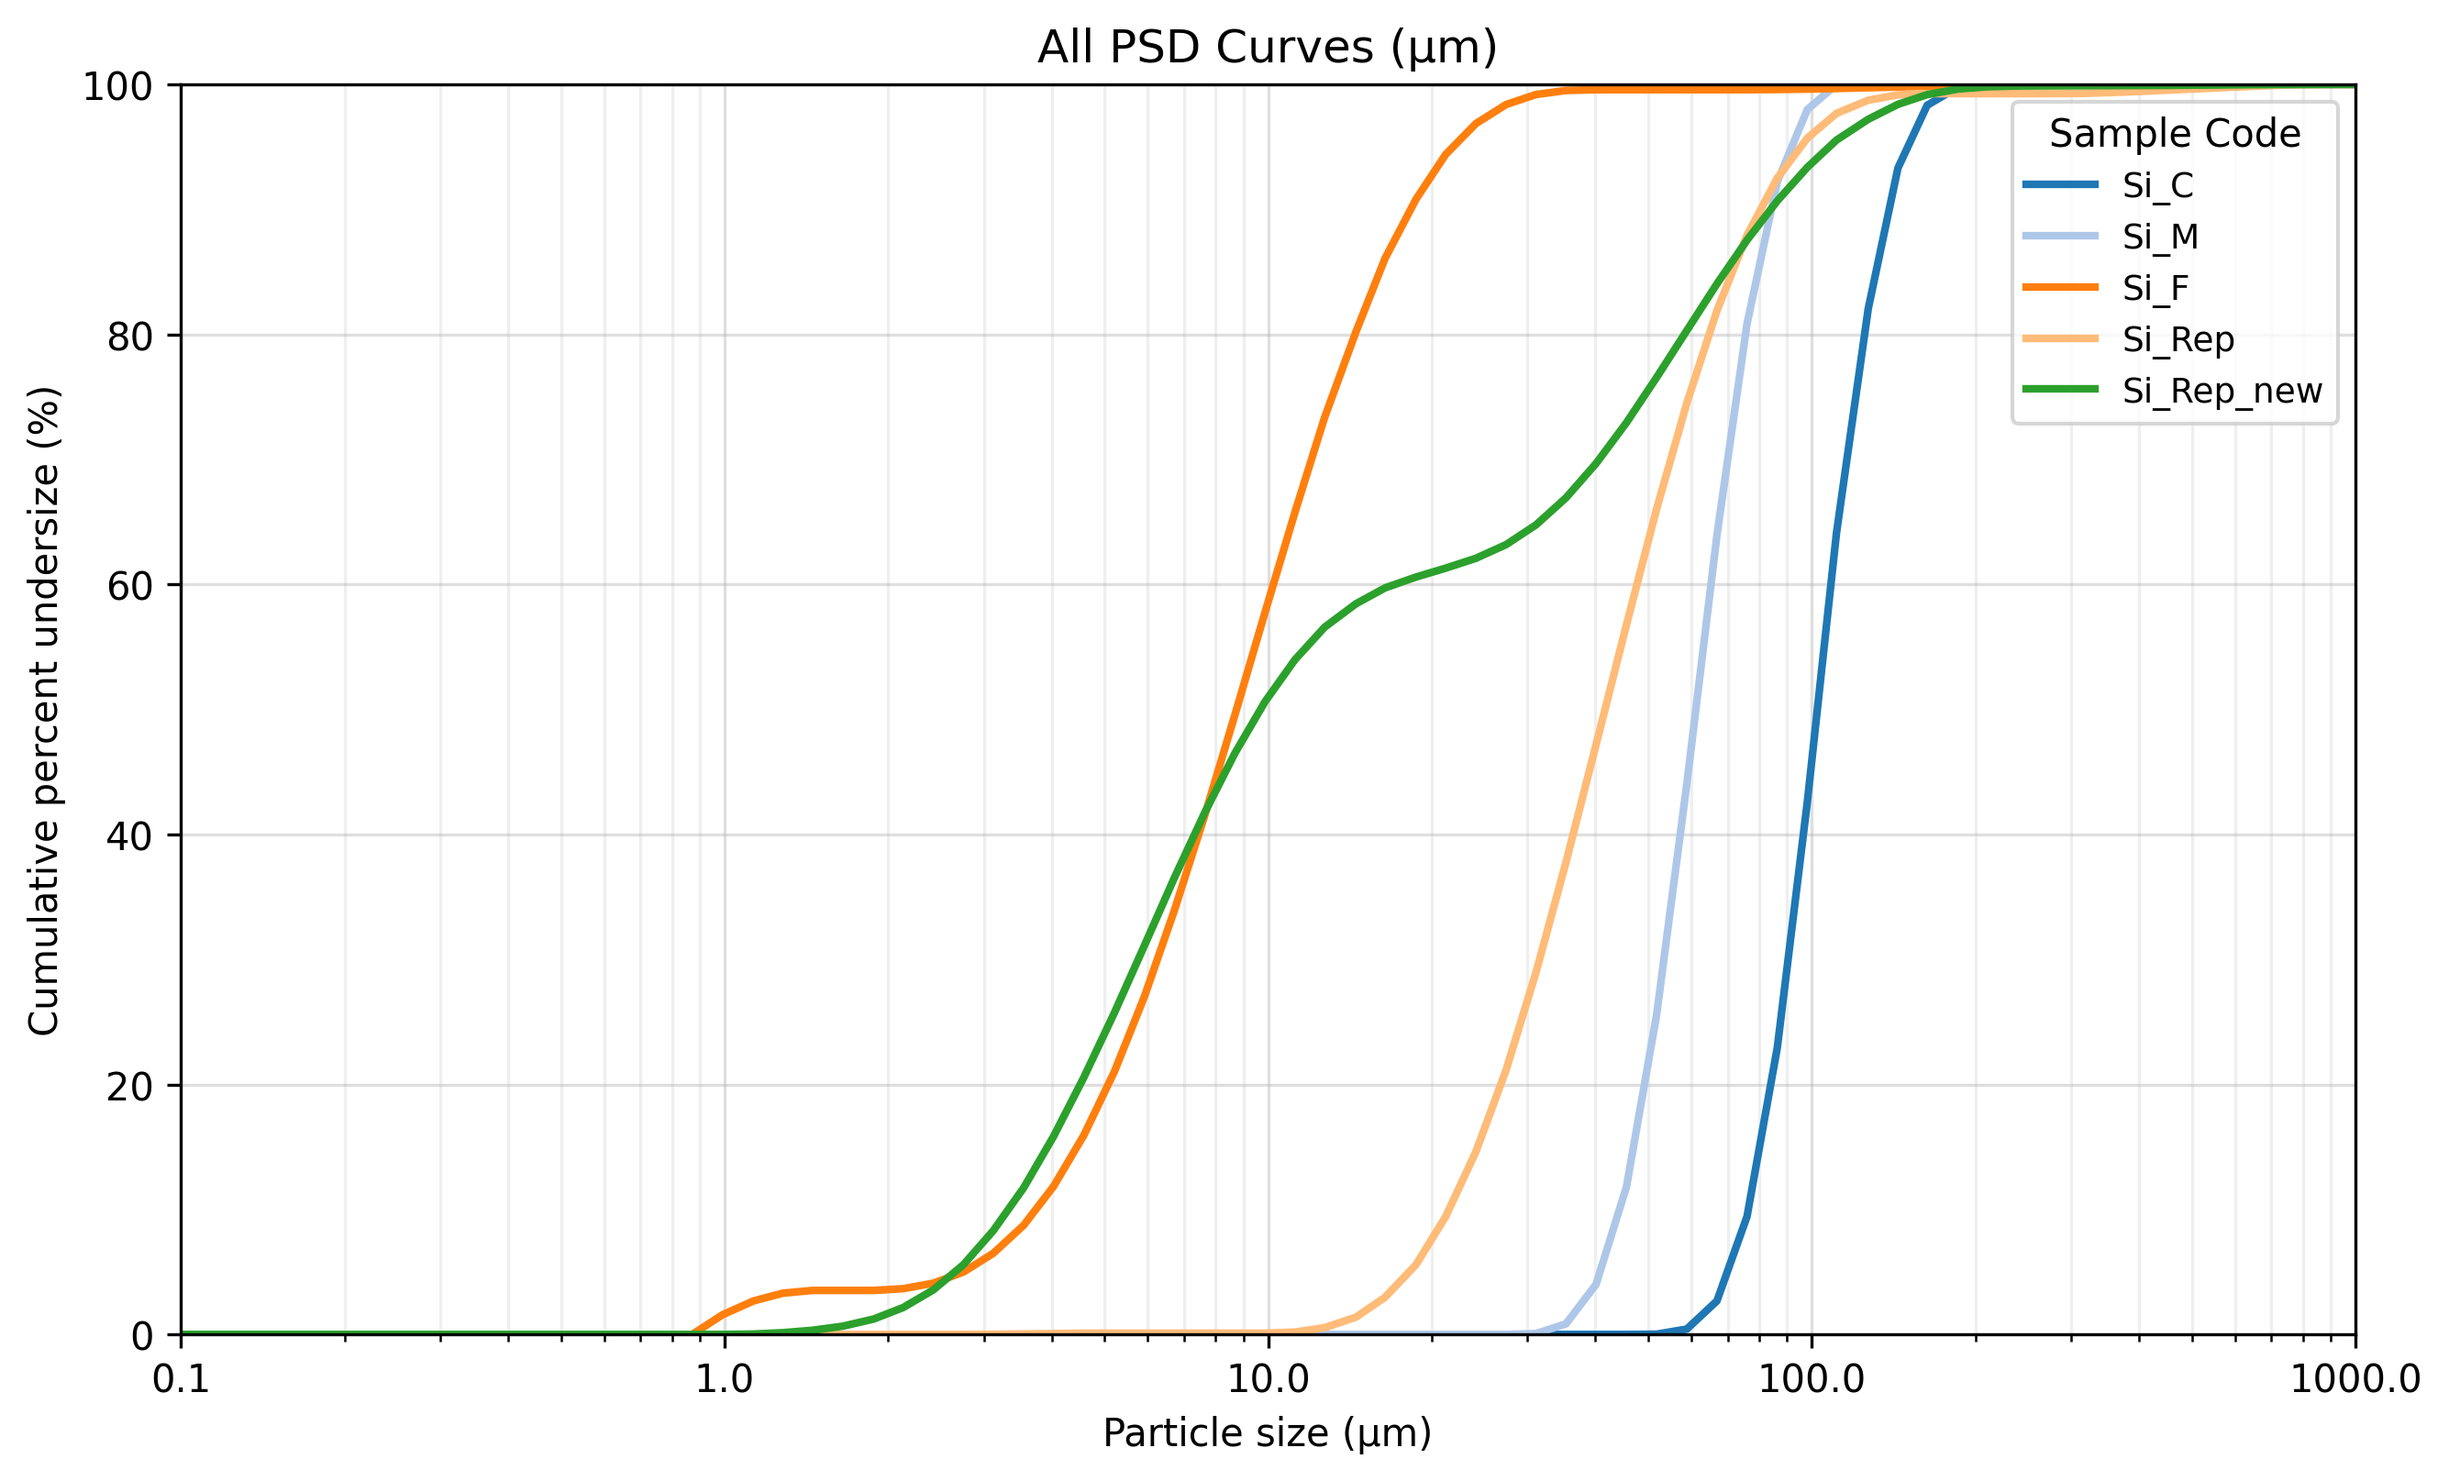
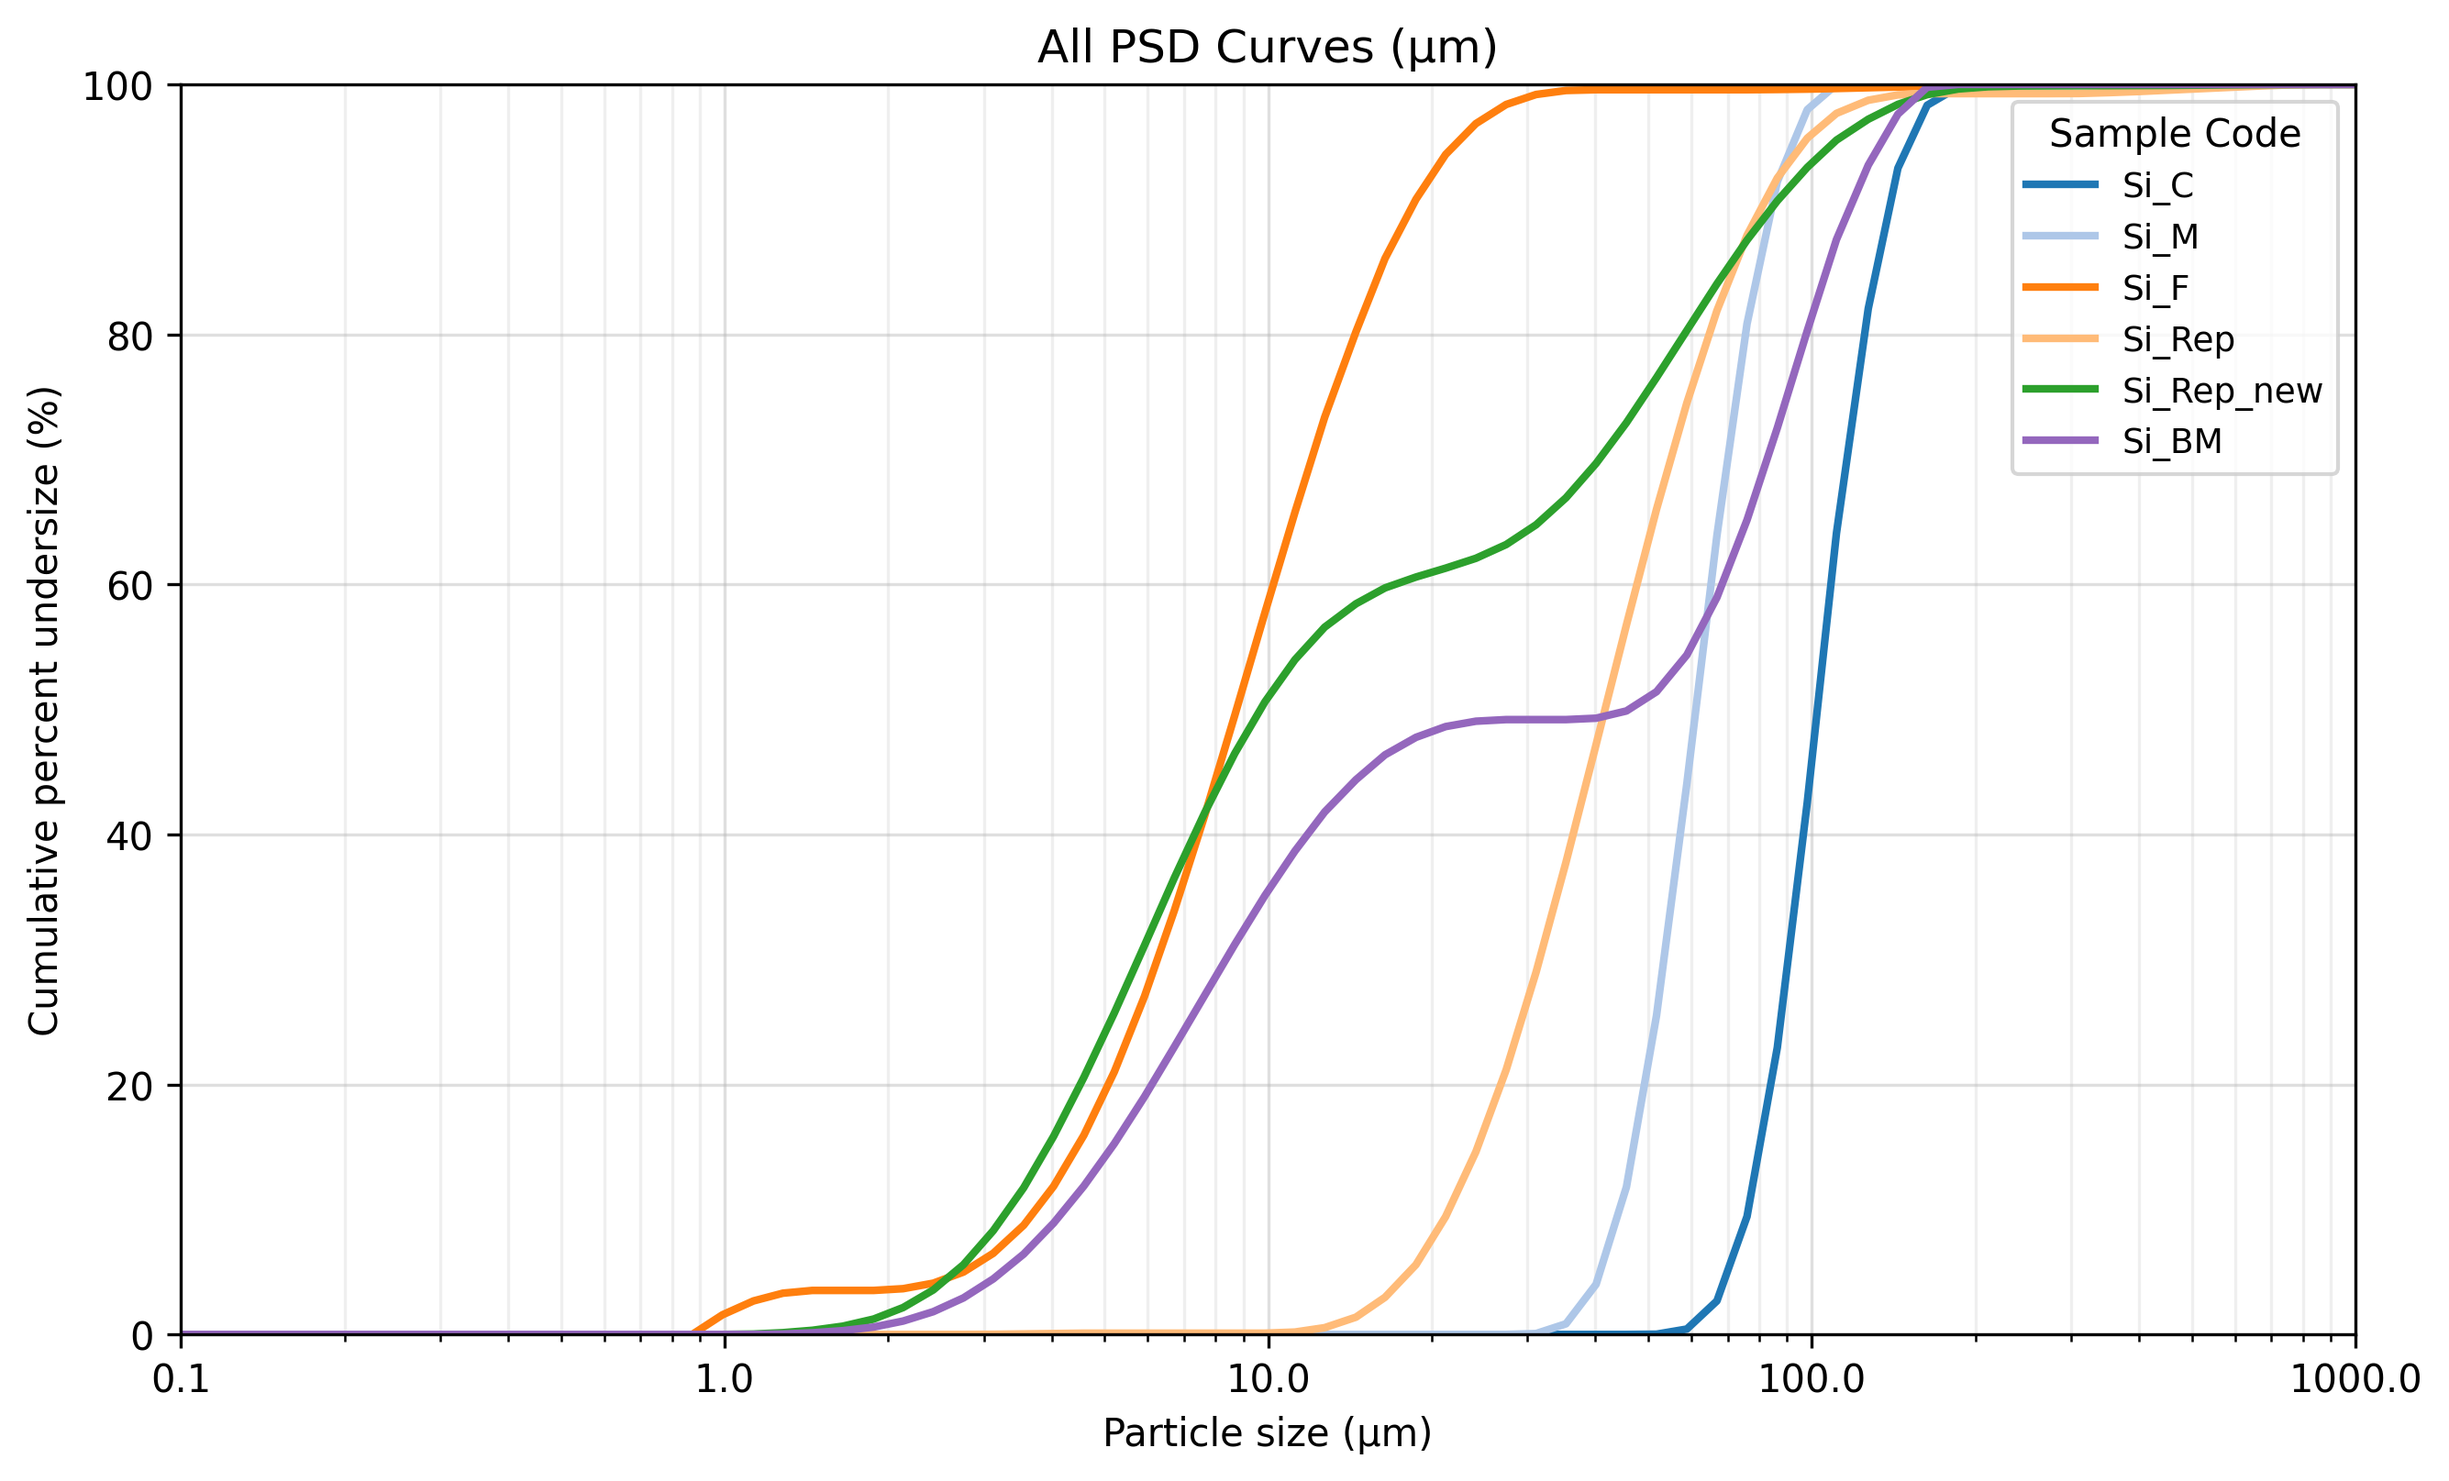
update all_psd

diff --git a/PSD_tools/psd_maker.py b/PSD_tools/psd_maker.py
@@ -1,19 +1,25 @@
 # -*- coding: utf-8 -*-
 from __future__ import annotations
-import re
-import pandas as pd
 import numpy as np
+import pandas as pd
 import matplotlib.pyplot as plt
 from matplotlib.ticker import ScalarFormatter
-from typing import Optional, Iterable, Sequence, Tuple, List
+from typing import Iterable, Optional, Sequence, Tuple, List
 
-# ---- Single-curve helpers ----
-def d_at_percent(sizes_um: Sequence[float], percent_passing: Sequence[float], p: float) -> float:
+# ---------- Single-curve helpers ----------
+def d_at_percent(
+    sizes_um: Sequence[float],
+    percent_passing: Sequence[float],
+    p: float
+) -> float:
     x = np.asarray(sizes_um, dtype=float)
     y = np.asarray(percent_passing, dtype=float)
-    if np.any(np.diff(x) <= 0): raise ValueError("sizes_um must be strictly increasing.")
-    if np.any(np.diff(y) < 0):  raise ValueError("percent_passing must be non-decreasing (cumulative).")
-    if not (0 <= p <= 100):     raise ValueError("p must be in [0, 100].")
+    if np.any(np.diff(x) <= 0):
+        raise ValueError("sizes_um must be strictly increasing.")
+    if np.any(np.diff(y) < 0):
+        raise ValueError("percent_passing must be non-decreasing (cumulative).")
+    if not (0 <= p <= 100):
+        raise ValueError("p must be in [0, 100].")
     return float(np.interp(p, y, x))
 
 def plot_psd(
@@ -24,7 +30,7 @@ def plot_psd(
     x_major_ticks: Iterable[float] = (0.1, 1, 10, 100, 1000),
     x_limits: Optional[Tuple[float, float]] = (0.1, 1000),
     show_grid: bool = True,
-    annotate_dx: Iterable[int] | None = None,   # set to None to avoid D10/D50/D90
+    annotate_dx: Iterable[int] | None = None,  # keep None to avoid drawing labels
     save_path: Optional[str] = None,
     show: bool = True,
 ) -> dict[str, float]:
@@ -35,13 +41,11 @@ def plot_psd(
 
     fig, ax = plt.subplots(figsize=(8, 5))
     ax.semilogx(x, y, "-o", linewidth=2, markersize=4)
-
     if x_limits: ax.set_xlim(*x_limits)
     ax.set_ylim(0, 100)
-    ax.set_xlabel("Particle size (\u03bcm)")  # your requested literal text
+    ax.set_xlabel("Particle size (\u03bcm)")
     ax.set_ylabel("Percent passing (%)")
     ax.set_title(title)
-
     ax.set_xticks(list(x_major_ticks))
     ax.get_xaxis().set_major_formatter(ScalarFormatter())
     if show_grid:
@@ -53,7 +57,7 @@ def plot_psd(
         for p in annotate_dx:
             d = d_at_percent(x, y, p)
             dx_out[f"D{p}"] = d
-            # (no lines/labels drawn on the figure)
+            # (no guide lines or text drawn)
 
     plt.tight_layout()
     if save_path: fig.savefig(save_path, dpi=300, bbox_inches="tight")
@@ -61,11 +65,9 @@ def plot_psd(
     else: plt.close(fig)
     return dx_out
 
-# ---- All-samples (PSD_Full) ----
+# ---------- All-samples (PSD_Full) ----------
 def _extract_numeric_size(colname: str) -> Optional[float]:
-    txt = str(colname)
-    # pull the first numeric token (handles '0.0995 u03bcm', '1110 u03bcm', etc.)
-    for token in txt.split():
+    for token in str(colname).split():
         try:
             return float(token)
         except ValueError:
@@ -77,90 +79,75 @@ def plot_all_psd(
     sheet_name: str = "PSD_Full",
     *,
     title: str = "Particle Size Distribution (All Samples)",
-    x_limits: tuple[float, float] = (0.1, 1000),
+    x_limits: Tuple[float, float] = (0.1, 1000),
     x_major_ticks: Iterable[float] = (0.1, 1, 10, 100, 1000),
     show_grid: bool = True,
     save_path: Optional[str] = None,
     show: bool = True,
     legend: bool = True,
 ):
-    """
-    Read PSD_Full and plot every row as a *cumulative* percent undersize curve.
-    If the row already looks cumulative (monotonic non-decreasing <=100), it's used as-is.
-    Otherwise it's treated as differential % per bin and converted to cumulative.
-    """
+    def to_cumulative(y_raw: np.ndarray) -> np.ndarray:
+        y = np.nan_to_num(y_raw.astype(float), nan=0.0)
+        if np.all(np.diff(y) >= -1e-6) and np.nanmax(y) <= 100 + 1e-6:
+            return np.clip(y, 0, 100)
+        tot = y.sum()
+        return np.cumsum(y * (100.0 / tot)) if tot > 0 else y
+
     df = pd.read_excel(excel_path, sheet_name=sheet_name, engine="openpyxl")
 
-    # --- find numeric PSD columns (e.g., '0.0995 u03bcm', '1110 u03bcm') ---
     psd_cols: List[str] = []
     sizes_um: List[float] = []
     for c in df.columns:
-        val = _extract_numeric_size(c)  # your helper stays the same
-        if val is not None:
+        v = _extract_numeric_size(c)
+        if v is not None:
             psd_cols.append(c)
-            sizes_um.append(val)
-
+            sizes_um.append(v)
     if not psd_cols:
         raise ValueError("No numeric PSD size columns found in the sheet.")
 
-    # sort by size (ascending) so cumulative is correct
     order = np.argsort(sizes_um)
     sizes_um = np.asarray(sizes_um, dtype=float)[order]
     psd_cols = [psd_cols[i] for i in order]
 
-    def to_cumulative(y_raw: np.ndarray) -> np.ndarray:
-        """Return cumulative % undersize (0-100). Detect if already cumulative."""
-        y = y_raw.astype(float)
-        # treat NaNs as zeros for processing
-        y = np.nan_to_num(y, nan=0.0)
-        # already cumulative? (non-decreasing and not >100)
-        if np.all(np.diff(y) >= -1e-6) and np.nanmax(y) <= 100 + 1e-6:
-            return np.clip(y, 0, 100)
-        # assume differential -> normalise to 100 then cumsum
-        total = y.sum()
-        if total <= 0:
-            return y  # all zeros
-        y_norm = y * (100.0 / total)
-        cum = np.cumsum(y_norm)
-        return np.clip(cum, 0, 100)
-
-    # --- plot all samples ---
     fig, ax = plt.subplots(figsize=(9, 5.5))
     cmap = plt.get_cmap("tab20")
-
-    for i, (_, row) in enumerate(df.iterrows()):
+    cidx = 0
+    for _, row in df.iterrows():
         name_val = row.get("Sample Name")
         if pd.isna(name_val):
-            continue  # skip empty rows
-
+            continue
         y_vals = row[psd_cols].to_numpy(dtype=float)
         if np.isnan(y_vals).all():
-            continue  # skip rows with no PSD data
-
+            continue
         y_cum = to_cumulative(y_vals)
-        ax.semilogx(sizes_um, y_cum, linewidth=2, label=str(name_val), color=cmap(i % 20))
+        ax.semilogx(sizes_um, y_cum, linewidth=2, label=str(name_val), color=cmap(cidx % 20))
+        cidx += 1
+
+    # Overlay your manual curve automatically
+    manual_sizes = np.array([0.5, 0.7, 1, 1.5, 2, 3, 4, 6, 8, 12, 18, 26, 38, 53, 75, 106, 150, 212, 300, 425, 600, 1000], dtype=float)
+    manual_percent = np.array([2.826, 4.277, 7.206, 12.586, 17.421, 25.123, 31.079, 40.088, 46.615,
+                               55.289, 62.971, 69.272, 75.268, 80.019, 84.453, 88.355, 91.703,
+                               94.637, 97.28, 99.165, 99.914, 100], dtype=float)
+    mo = np.argsort(manual_sizes)
+    manual_sizes = manual_sizes[mo]
+    manual_percent = manual_percent[mo]
+    manual_cum = to_cumulative(manual_percent)
+    ax.semilogx(manual_sizes, manual_cum, linewidth=3, color="black", label="RT_As Received")
 
     ax.set_xlim(*x_limits)
     ax.set_ylim(0, 100)
-    ax.set_xlabel("Particle size (\u03bcm)")  # keep literal text as requested
+    ax.set_xlabel("Particle size (\u03bcm)")
     ax.set_ylabel("Cumulative percent undersize (%)")
     ax.set_title(title)
-
     ax.set_xticks(list(x_major_ticks))
     ax.get_xaxis().set_major_formatter(ScalarFormatter())
-
     if show_grid:
         ax.grid(True, which="major", alpha=0.4)
         ax.grid(True, which="minor", alpha=0.2)
-
     if legend:
         ax.legend(title="Sample Code", fontsize=9, ncol=1)
 
     plt.tight_layout()
-    if save_path:
-        fig.savefig(save_path, dpi=300, bbox_inches="tight")
-    if show:
-        plt.show()
-    else:
-        plt.close(fig)
-
+    if save_path: fig.savefig(save_path, dpi=300, bbox_inches="tight")
+    if show: plt.show()
+    else: plt.close(fig)

diff --git a/Data_Process/PSDvsCakePore.py b/Data_Process/PSDvsCakePore.py
@@ -1,0 +1,87 @@
+import pandas as pd
+import numpy as np
+import matplotlib.pyplot as plt
+
+def plot_PSD_vs_CakePore(xlsx_path, sheet_db="DB", sheet_psd="PSD", d50_col="D50"):
+    # === Load sheets ===
+    df_db  = pd.read_excel(xlsx_path, sheet_name=sheet_db,  engine="openpyxl")
+    df_psd = pd.read_excel(xlsx_path, sheet_name=sheet_psd, engine="openpyxl")
+
+    # === Required columns ===
+    for col in ["Sample Code", "Cake_por"]:
+        if col not in df_db.columns:
+            raise ValueError(f"'{col}' missing from sheet '{sheet_db}'.")
+    for col in ["Sample Code", d50_col]:
+        if col not in df_psd.columns:
+            raise ValueError(f"'{col}' missing from sheet '{sheet_psd}'.")
+
+    # === Clean + filter ===
+    # Optional: drop failed/anom from DB
+    if "Coments" in df_db.columns:
+        bad = df_db["Coments"].astype(str).str.lower().str.contains(r"\bfail\b|\banom\b", na=False)
+        df_db = df_db[~bad]
+
+    # Coerce numerics
+    df_db["Cake_por"] = pd.to_numeric(df_db["Cake_por"], errors="coerce")
+    df_psd[d50_col]   = pd.to_numeric(df_psd[d50_col],   errors="coerce")
+
+    # Keep valid rows
+    df_db  = df_db.dropna(subset=["Sample Code", "Cake_por"])
+    df_psd = df_psd.dropna(subset=["Sample Code", d50_col])
+
+    # === Merge DB + PSD on Sample Code ===
+    df = pd.merge(df_db[["Sample Code", "Cake_por"]],
+                  df_psd[["Sample Code", d50_col]],
+                  on="Sample Code", how="inner")
+
+    df = df.replace([np.inf, -np.inf], np.nan).dropna(subset=["Cake_por", d50_col])
+    df["Sample Label"] = df["Sample Code"].astype(str)
+
+    # === Plot helper ===
+    def scatter_grouped(x, y, groups, xlab, ylab, title, legend_title="Sample Code"):
+        plt.figure(figsize=(8.0, 5.8))
+        uniq = sorted(pd.Series(groups).unique())
+        cmap = plt.cm.get_cmap("tab20", len(uniq))
+        color_map = {g: cmap(i) for i, g in enumerate(uniq)}
+
+        for g in uniq:
+            m = (groups == g)
+            plt.scatter(
+                np.asarray(x)[m], np.asarray(y)[m],
+                s=65, alpha=0.9, edgecolor="black", linewidths=0.4,
+                color=color_map[g], label=g
+            )
+
+        # Optional overall trendline
+        try:
+            x_arr = np.asarray(x, dtype=float)
+            y_arr = np.asarray(y, dtype=float)
+            mask = np.isfinite(x_arr) & np.isfinite(y_arr)
+            if mask.sum() >= 2:
+                z = np.polyfit(x_arr[mask], y_arr[mask], 1)
+                p = np.poly1d(z)
+                xs = np.linspace(np.nanmin(x_arr[mask]), np.nanmax(x_arr[mask]), 200)
+                plt.plot(xs, p(xs), linestyle="--", color="black", label="Trend")
+        except Exception:
+            pass
+
+        plt.title(title)
+        plt.xlabel(xlab)
+        plt.ylabel(ylab)
+        plt.grid(True, linestyle="--", alpha=0.5)
+        plt.legend(title=legend_title, fontsize=8, bbox_to_anchor=(1.02, 1),
+                   loc="upper left", borderaxespad=0.)
+        plt.tight_layout()
+        plt.show()
+
+    # === Plot Cake Porosity vs D50 ===
+    scatter_grouped(
+        df[d50_col].values,
+        df["Cake_por"].values,
+        df["Sample Label"],
+        xlab=f"{d50_col} (\u03bcm)",
+        ylab="Cake Porosity (-)",
+        title=f"Cake Porosity vs {d50_col}"
+    )
+
+    return df
